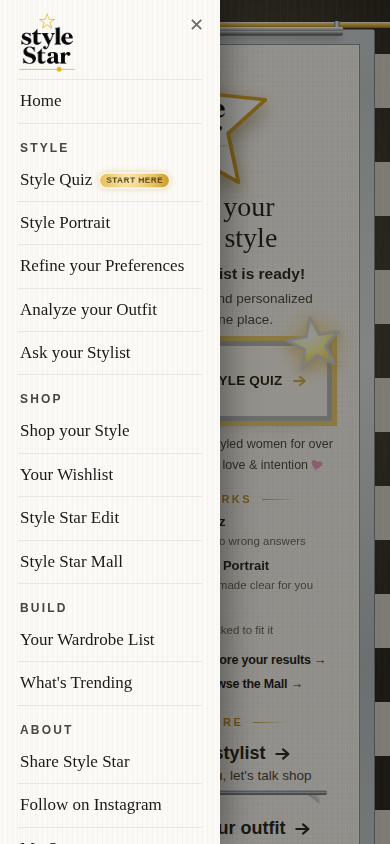
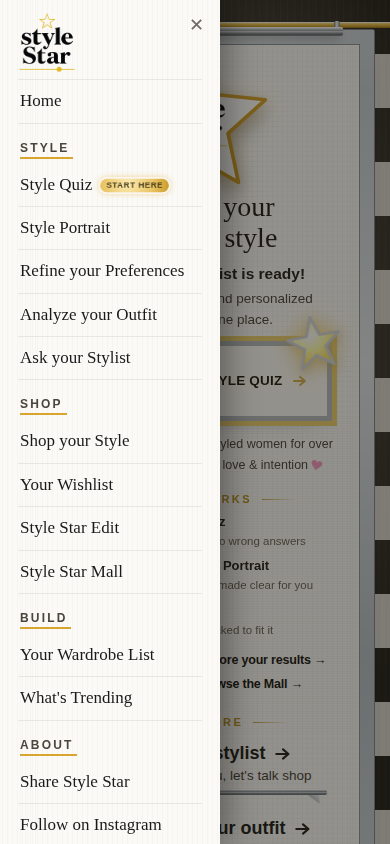
Breathing room above the marquee pill (her adjustment) (#786)
* Refresh menux reference shot with promoted labels + gold bars

Claude-Session: https://claude.ai/code/session_016L23CfkCzWBThRfBBj9SQc

* Notes: Netlify build-credit stall lesson (her find, her fix)

Claude-Session: https://claude.ai/code/session_016L23CfkCzWBThRfBBj9SQc

* Welcome Back air-package renders: before vs after (her cramped catch)

Claude-Session: https://claude.ai/code/session_016L23CfkCzWBThRfBBj9SQc

* Her air-package variant render: pill breathing room only, gutter kept tight

Claude-Session: https://claude.ai/code/session_016L23CfkCzWBThRfBBj9SQc

* Breathing room above the marquee pill (her adjustment)

The lacquer pill sat 6px under the quote vs 19px below - the imbalance
arrived with the pill (the old cream box was too quiet to crowd
anything). Her call: +12px above the pill only, the dark gutter before
the SHOP awning stays tight so the marquee and awning read as one
storefront. Total fold cost 12px on a deliberately dense page.

hubs 46, e2e 29 green.

Claude-Session: https://claude.ai/code/session_016L23CfkCzWBThRfBBj9SQc

---------

diff --git a/index.html b/index.html
@@ -1316,7 +1316,10 @@ body.card-fb{padding:0}
    Black lacquer + gold letters: the same world as the marquee mirror it sits
    in, and the app's black-pill action language dressed for the occasion. */
 #s-wb .wb-port-cta{font-family:'Jost',sans-serif;font-size:13.5px;font-weight:600;color:#F2D889;letter-spacing:.04em;display:inline-flex;justify-content:center;align-items:center;gap:5px;white-space:nowrap;
-  margin-top:3px;padding:11px 20px;background:#1a1a1a;border:1px solid #C99A2C;border-radius:999px}
+  margin-top:12px;padding:11px 20px;background:#1a1a1a;border:1px solid #C99A2C;border-radius:999px}
+/* margin-top 12 (was 3), her call 2026-08-09: the lacquer pill crowded the quote
+   (6px above vs 19px below). Air INSIDE the card only — the dark gutter before
+   the SHOP awning stays tight, her explicit adjustment. */
 #s-wb .wb-port-cta span{text-decoration:none}
 #s-wb .wb-port-cta svg{width:14px;height:14px;stroke:#F2D889}
 /* wb-portrait deliberately has NO wb-lift/tap-press effect (see markup): the chain

diff --git a/CLAUDE.md b/CLAUDE.md
@@ -31,6 +31,27 @@ Her screenshot pass on Welcome Back, two catches, both built + merged same sessi
   without landing; the #783 push should carry both — if the live grep still fails, her Netlify dashboard
   (Deploys tab) is the instrument.
 
+### ⚠ NETLIFY LESSON (2026-08-09): OUT OF BUILD CREDITS = DEPLOYS SILENTLY STALL
+Mid-session, three merged PRs sat un-deployed for ~an hour while the live site served stale code — no
+error reached us, the merges were green, and the site stayed up (serving the last good deploy). **Root
+cause, found by Cath in her dashboard: Netlify build credits were exhausted. She added $10 and the whole
+queue flushed at once.** ▶ **The diagnostic split for any future "merged but not live":** (1) curl the
+live site for a string from the new deploy — if missing after ~5min, (2) it is NEVER the code; send Cath
+to app.netlify.com → site → **Deploys** — a red Failed needs its log pasted; NOTHING NEW since the last
+merge means credits/minutes are out (this case). ⚠ **Every merge burns build minutes** — a
+many-small-PRs day like this one (7 merges) costs 7 builds. Not a reason to batch work, just the reason
+the meter ran out today of all days.
+
+### ✅ THE MARQUEE PILL GOT ITS BREATHING ROOM — her adjustment, shipped (2026-08-09)
+Her critical-eye pass on the live Welcome Back: the top section felt cramped but she wants the page DENSE
+("I don't want her to miss a thing" — see-everything is a stated value on this screen; weigh future air
+against it). ▶ **Measured cause: the new lacquer pill sat 6px under the quote vs 19px below — the old
+cream box was too quiet to crowd anything; the imbalance ARRIVED with the pill.** Offered a 2-part air
+package (+12px above the pill, +8px dark gutter); **her adjustment, and it was the better call: air
+INSIDE the card only, the dark gutter before the SHOP awning stays TIGHT** (the marquee and awning read
+as one storefront). As shipped: `.wb-port-cta` margin-top 3 → 12px, total fold cost 12px. Renders:
+`scratchpad/wbair-{before,after,hers}.png`. hubs 46 · e2e 29 green.
+
 ### ✅ THE MENU'S GROUP LABELS ARE PROMOTED — her pick "C" + the padding trim (2026-08-09)
 Her two catches on a live drawer screenshot: STYLE/SHOP/BUILD/ABOUT *"too hard to read, too small, don't
 stand out"* (measured: 10.5px `#8a8474` ≈ 3.5:1 on the ivory — the ONLY sub-AA text in the drawer) and
